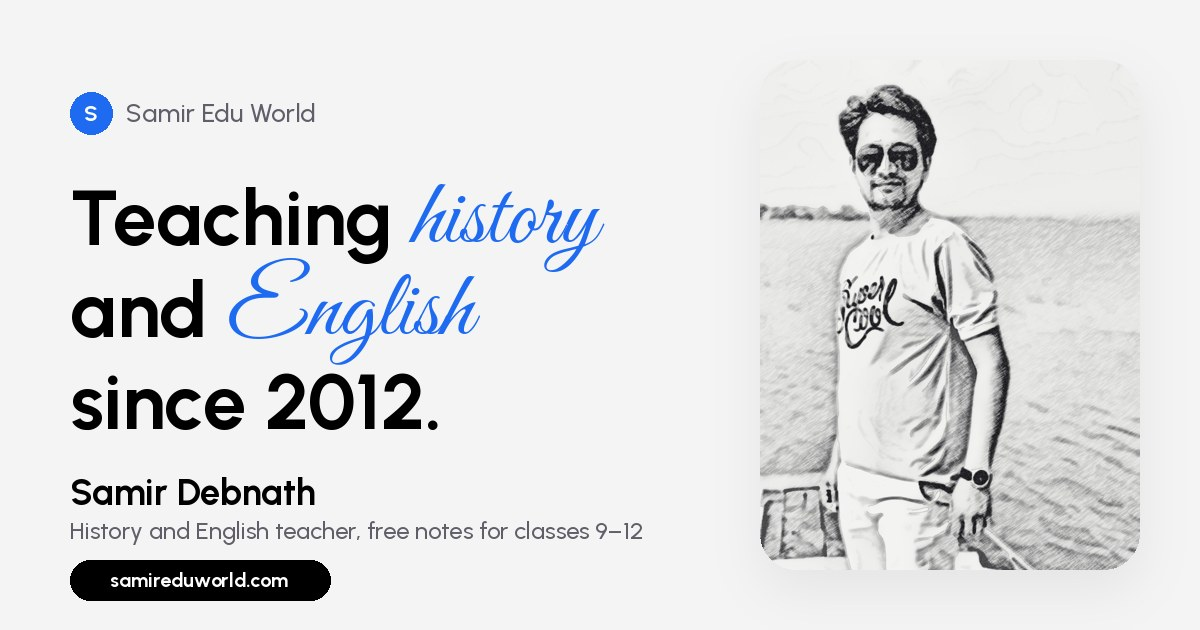
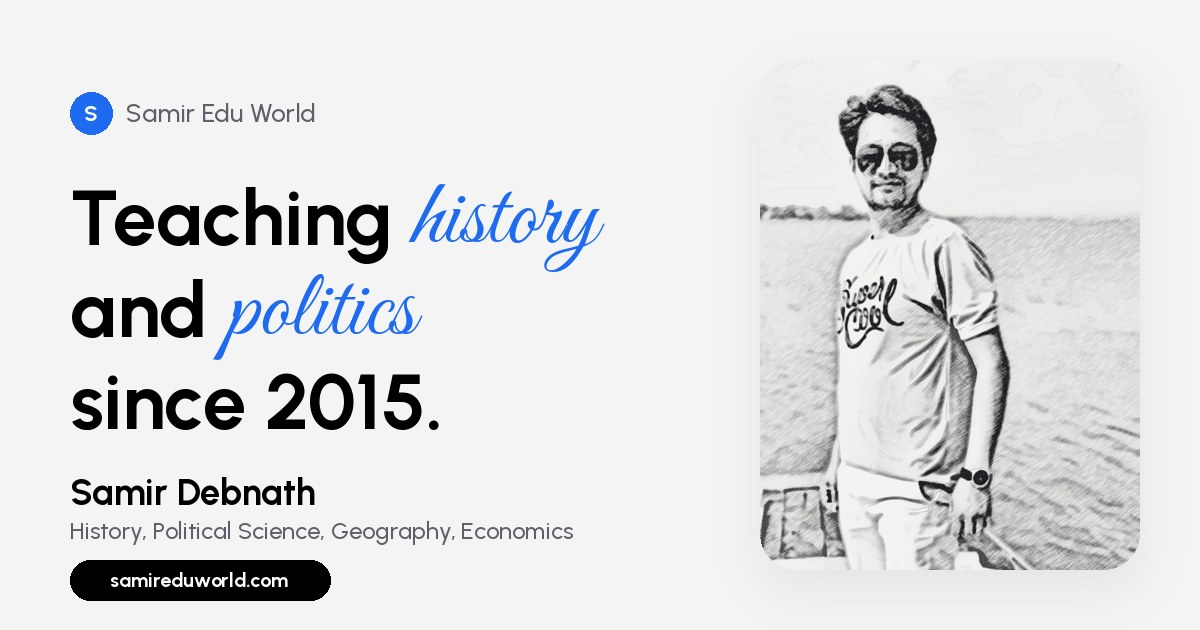
Add files via upload

diff --git a/index.html b/index.html
@@ -3,16 +3,16 @@
 <head>
 <meta charset="utf-8">
 <meta name="viewport" content="width=device-width, initial-scale=1, viewport-fit=cover">
-<title>Samir Edu World — Samir Debnath, History and English Teacher</title>
-<meta name="description" content="Samir Debnath teaches History and English at a government school in Tripura, and shares free notes for students in classes 9 to 12 through Samir Edu World.">
+<title>Samir Edu World — Samir Debnath, History and Political Science Teacher</title>
+<meta name="description" content="Samir Debnath teaches History, Political Science, Geography and Economics to classes 9 to 12, and Political Science at college. Free notes for students through Samir Edu World.">
 <link rel="canonical" href="https://samireduworld.com/">
 <meta name="theme-color" content="#F4F4F4">
 <link rel="icon" href="/favicon.svg" type="image/svg+xml">
 <link rel="apple-touch-icon" href="/apple-touch-icon.png">
 <meta property="og:type" content="website">
 <meta property="og:site_name" content="Samir Edu World">
-<meta property="og:title" content="Samir Debnath | History and English Teacher">
-<meta property="og:description" content="Teaching history and English since 2012. Free study notes for classes 9 to 12.">
+<meta property="og:title" content="Samir Debnath | History and Political Science Teacher">
+<meta property="og:description" content="Teaching history and politics since 2015. Free study notes for classes 9 to 12 and college.">
 <meta property="og:url" content="https://samireduworld.com/">
 <meta property="og:image" content="https://samireduworld.com/og-image.jpg">
 <meta property="og:image:width" content="1200">
@@ -297,7 +297,7 @@ footer{padding:40px 0 calc(50px + env(safe-area-inset-bottom,0px)); color:var(--
       <div class="notch-menu" id="notchMenu">
         <a class="wa" target="_blank" rel="noopener" href="#"><i><svg viewBox="0 0 24 24" fill="none" stroke="currentColor" stroke-width="2" stroke-linecap="round" stroke-linejoin="round"><path d="M21 11.5a8.4 8.4 0 0 1-12.4 7.4L3 21l2.1-5.4A8.4 8.4 0 1 1 21 11.5z"/></svg></i>Chat on WhatsApp</a>
         <a href="tel:+918794573962"><i><svg viewBox="0 0 24 24" fill="none" stroke="currentColor" stroke-width="2" stroke-linecap="round" stroke-linejoin="round"><path d="M22 16.9v3a2 2 0 0 1-2.2 2 19.8 19.8 0 0 1-8.6-3.1 19.5 19.5 0 0 1-6-6A19.8 19.8 0 0 1 2.1 4.2 2 2 0 0 1 4.1 2h3a2 2 0 0 1 2 1.7c.1.9.4 1.8.7 2.7a2 2 0 0 1-.5 2.1L8 9.8a16 16 0 0 0 6 6l1.3-1.3a2 2 0 0 1 2.1-.4c.9.3 1.8.6 2.7.7a2 2 0 0 1 1.7 2z"/></svg></i>Call me</a>
-        <a href="mailto:hello@samireduworld.com"><i><svg viewBox="0 0 24 24" fill="none" stroke="currentColor" stroke-width="2" stroke-linecap="round" stroke-linejoin="round"><rect x="3" y="5" width="18" height="14" rx="2"/><path d="m3 7 9 6 9-6"/></svg></i>Send an email</a>
+        <a href="mailto:sameerdeb91@gmail.com"><i><svg viewBox="0 0 24 24" fill="none" stroke="currentColor" stroke-width="2" stroke-linecap="round" stroke-linejoin="round"><rect x="3" y="5" width="18" height="14" rx="2"/><path d="m3 7 9 6 9-6"/></svg></i>Send an email</a>
       </div>
     </div>
     <div class="head-right">
@@ -313,7 +313,7 @@ footer{padding:40px 0 calc(50px + env(safe-area-inset-bottom,0px)); color:var(--
     <nav aria-label="Main">
       <a href="#top">Home</a><a href="#about">About</a><a href="#subjects">Subjects</a><a href="#notes">Free notes</a><a href="#journey">Journey</a><a href="#contact">Contact</a>
     </nav>
-    <div class="foot"><a href="mailto:hello@samireduworld.com">hello@samireduworld.com</a><span>Government High School, Tripura</span></div>
+    <div class="foot"><a href="mailto:sameerdeb91@gmail.com">sameerdeb91@gmail.com</a><span>School and college teacher</span></div>
   </div>
 </div>
 
@@ -323,12 +323,12 @@ footer{padding:40px 0 calc(50px + env(safe-area-inset-bottom,0px)); color:var(--
   <div class="wrap hero-grid">
     <div>
       <p class="badge" id="heroBadge"><i><svg viewBox="0 0 24 24" fill="none" stroke="currentColor" stroke-width="2" stroke-linecap="round" stroke-linejoin="round"><path d="M16 21v-2a4 4 0 0 0-4-4H6a4 4 0 0 0-4 4v2"/><circle cx="9" cy="7" r="4"/><path d="M22 21v-2a4 4 0 0 0-3-3.9M16 3.1a4 4 0 0 1 0 7.8"/></svg></i>Students First</p>
-      <h1 class="hero-title" id="hero-title" aria-label="Teaching history and English since 2012.">
+      <h1 class="hero-title" id="hero-title" aria-label="Teaching history and politics since 2015.">
         <span class="hl" aria-hidden="true"><span class="w"><span class="wd">Teaching</span></span> <em class="script sw">history</em></span>
-        <span class="hl" aria-hidden="true"><span class="w"><span class="wd">and</span></span> <span class="pill pw"><svg viewBox="0 0 24 24" fill="none" stroke="currentColor" stroke-width="1.8" stroke-linecap="round" stroke-linejoin="round"><path d="M2 5c3-1.5 6.5-1.5 10 1 3.5-2.5 7-2.5 10-1v14c-3-1.5-6.5-1.5-10 1-3.5-2.5-7-2.5-10-1z"/><path d="M12 6v14"/></svg></span> <em class="script sw">English</em></span>
-        <span class="hl" aria-hidden="true"><span class="w"><span class="wd">since</span></span> <span class="pill pw"><svg viewBox="0 0 24 24" fill="none" stroke="currentColor" stroke-width="1.8" stroke-linecap="round" stroke-linejoin="round"><path d="M3 9h18L12 3z"/><path d="M5 9v10M9.5 9v10M14.5 9v10M19 9v10M3 21h18"/></svg></span> <span class="w"><span class="wd">2012.</span></span></span>
+        <span class="hl" aria-hidden="true"><span class="w"><span class="wd">and</span></span> <span class="pill pw"><svg viewBox="0 0 24 24" fill="none" stroke="currentColor" stroke-width="1.8" stroke-linecap="round" stroke-linejoin="round"><path d="M12 3v18M7 21h10M4 7h16M4 7l-2 6a3 3 0 0 0 4 0zM20 7l-2 6a3 3 0 0 0 4 0z"/></svg></span> <em class="script sw">politics</em></span>
+        <span class="hl" aria-hidden="true"><span class="w"><span class="wd">since</span></span> <span class="pill pw"><svg viewBox="0 0 24 24" fill="none" stroke="currentColor" stroke-width="1.8" stroke-linecap="round" stroke-linejoin="round"><circle cx="12" cy="12" r="9"/><path d="M3 12h18M12 3c3 3.5 3 14.5 0 18M12 3c-3 3.5-3 14.5 0 18"/></svg></span> <span class="w"><span class="wd">2015.</span></span></span>
       </h1>
-      <p class="hero-lede">Helping students in classes 9 to 12 understand the past, write with confidence in English, and walk into board exams prepared.</p>
+      <p class="hero-lede">I teach History, Political Science, Geography and Economics to classes 9 to 12, and Political Science at college.</p>
       <div class="hero-cta"><a class="btn magnetic" href="#subjects">Explore my classes<span class="arr"><svg viewBox="0 0 24 24" fill="none" stroke="currentColor" stroke-width="2.4" stroke-linecap="round" stroke-linejoin="round"><path d="M5 12h14M13 6l6 6-6 6"/></svg></span></a></div>
     </div>
     <div class="hero-card-wrap">
@@ -341,10 +341,10 @@ footer{padding:40px 0 calc(50px + env(safe-area-inset-bottom,0px)); color:var(--
 <!-- STATS -->
 <div class="wrap reveal">
   <div class="stats">
-    <div class="stat"><b><span data-count="12">12</span>+</b><span>Years teaching</span></div>
+    <div class="stat"><b><span data-count="10">10</span>+</b><span>Years teaching</span></div>
     <div class="stat"><b><span data-count="2000">2,000</span>+</b><span>Students taught</span></div>
-    <div class="stat"><b data-count="4">4</b><span>Arts subjects</span></div>
-    <div class="stat"><b>9–12</b><span>Classes I teach</span></div>
+    <div class="stat"><b data-count="4">4</b><span>Subjects I teach</span></div>
+    <div class="stat"><b>9–12</b><span>Classes, plus college</span></div>
   </div>
 </div>
 
@@ -356,21 +356,21 @@ footer{padding:40px 0 calc(50px + env(safe-area-inset-bottom,0px)); color:var(--
       <p class="badge reveal"><i><svg viewBox="0 0 24 24" fill="none" stroke="currentColor" stroke-width="2" stroke-linecap="round" stroke-linejoin="round"><circle cx="12" cy="8" r="4"/><path d="M4 21a8 8 0 0 1 16 0"/></svg></i>About me</p>
       <h2 id="about-title" data-split>A teacher who <em class="script">listens</em> first.</h2>
       <div class="copy reveal">
-        <p>I teach History and English at a government school in Tripura. In twelve years I’ve learned that most students don’t struggle with the subject. They struggle with how it was explained to them.</p>
-        <p>So I teach history as the story of real people and real choices, and English as a language you use every day, not just for exams. Samir Edu World is where I share my notes, free, with any student who needs them.</p>
+        <p>I teach History, Political Science, Geography and Economics to classes 9 to 12 at a government school, and Political Science at college. In ten years in the classroom I’ve learned that most students don’t struggle with the subject. They struggle with how it was explained to them.</p>
+        <p>So I teach history as the story of real people, politics through the news students already follow, and geography and economics through the world right outside their window. Samir Edu World is where I share my notes, free, with any student who needs them.</p>
       </div>
       <dl class="facts reveal">
-        <div><dt>Qualification</dt><dd>M.A. History, B.Ed.</dd></div>
-        <div><dt>Current school</dt><dd>Government High School, Tripura</dd></div>
-        <div><dt>Experience</dt><dd>12+ years</dd></div>
-        <div><dt>Teaches in</dt><dd>Bengali and English</dd></div>
+        <div><dt>Subjects</dt><dd>History, Political Science, Geography, Economics</dd></div>
+        <div><dt>Experience</dt><dd>10+ years, since 2015</dd></div>
+        <div><dt>School</dt><dd>Classes 9 to 12</dd></div>
+        <div><dt>College</dt><dd>Political Science</dd></div>
       </dl>
     </div>
   </div>
 </section>
 
 <!-- MARQUEE -->
-<div class="marquee" aria-hidden="true"><div class="marquee-track"><div class="marquee-group"><span>Modern India</span><svg viewBox="0 0 24 24"><path d="M12 2 L14 10 L22 12 L14 14 L12 22 L10 14 L2 12 L10 10 Z" fill="currentColor"/></svg><span class="script">English</span><svg viewBox="0 0 24 24"><path d="M12 2 L14 10 L22 12 L14 14 L12 22 L10 14 L2 12 L10 10 Z" fill="currentColor"/></svg><span>Essay writing</span><svg viewBox="0 0 24 24"><path d="M12 2 L14 10 L22 12 L14 14 L12 22 L10 14 L2 12 L10 10 Z" fill="currentColor"/></svg><span>World history</span><svg viewBox="0 0 24 24"><path d="M12 2 L14 10 L22 12 L14 14 L12 22 L10 14 L2 12 L10 10 Z" fill="currentColor"/></svg><span class="script">Poetry</span><svg viewBox="0 0 24 24"><path d="M12 2 L14 10 L22 12 L14 14 L12 22 L10 14 L2 12 L10 10 Z" fill="currentColor"/></svg><span>The Constitution</span><svg viewBox="0 0 24 24"><path d="M12 2 L14 10 L22 12 L14 14 L12 22 L10 14 L2 12 L10 10 Z" fill="currentColor"/></svg><span>Map work</span><svg viewBox="0 0 24 24"><path d="M12 2 L14 10 L22 12 L14 14 L12 22 L10 14 L2 12 L10 10 Z" fill="currentColor"/></svg><span class="script">Grammar</span><svg viewBox="0 0 24 24"><path d="M12 2 L14 10 L22 12 L14 14 L12 22 L10 14 L2 12 L10 10 Z" fill="currentColor"/></svg></div><div class="marquee-group"><span>Modern India</span><svg viewBox="0 0 24 24"><path d="M12 2 L14 10 L22 12 L14 14 L12 22 L10 14 L2 12 L10 10 Z" fill="currentColor"/></svg><span class="script">English</span><svg viewBox="0 0 24 24"><path d="M12 2 L14 10 L22 12 L14 14 L12 22 L10 14 L2 12 L10 10 Z" fill="currentColor"/></svg><span>Essay writing</span><svg viewBox="0 0 24 24"><path d="M12 2 L14 10 L22 12 L14 14 L12 22 L10 14 L2 12 L10 10 Z" fill="currentColor"/></svg><span>World history</span><svg viewBox="0 0 24 24"><path d="M12 2 L14 10 L22 12 L14 14 L12 22 L10 14 L2 12 L10 10 Z" fill="currentColor"/></svg><span class="script">Poetry</span><svg viewBox="0 0 24 24"><path d="M12 2 L14 10 L22 12 L14 14 L12 22 L10 14 L2 12 L10 10 Z" fill="currentColor"/></svg><span>The Constitution</span><svg viewBox="0 0 24 24"><path d="M12 2 L14 10 L22 12 L14 14 L12 22 L10 14 L2 12 L10 10 Z" fill="currentColor"/></svg><span>Map work</span><svg viewBox="0 0 24 24"><path d="M12 2 L14 10 L22 12 L14 14 L12 22 L10 14 L2 12 L10 10 Z" fill="currentColor"/></svg><span class="script">Grammar</span><svg viewBox="0 0 24 24"><path d="M12 2 L14 10 L22 12 L14 14 L12 22 L10 14 L2 12 L10 10 Z" fill="currentColor"/></svg></div></div></div>
+<div class="marquee" aria-hidden="true"><div class="marquee-track"><div class="marquee-group"><span>Modern India</span><svg viewBox="0 0 24 24"><path d="M12 2 L14 10 L22 12 L14 14 L12 22 L10 14 L2 12 L10 10 Z" fill="currentColor"/></svg><span class="script">Politics</span><svg viewBox="0 0 24 24"><path d="M12 2 L14 10 L22 12 L14 14 L12 22 L10 14 L2 12 L10 10 Z" fill="currentColor"/></svg><span>The Constitution</span><svg viewBox="0 0 24 24"><path d="M12 2 L14 10 L22 12 L14 14 L12 22 L10 14 L2 12 L10 10 Z" fill="currentColor"/></svg><span>World history</span><svg viewBox="0 0 24 24"><path d="M12 2 L14 10 L22 12 L14 14 L12 22 L10 14 L2 12 L10 10 Z" fill="currentColor"/></svg><span class="script">Geography</span><svg viewBox="0 0 24 24"><path d="M12 2 L14 10 L22 12 L14 14 L12 22 L10 14 L2 12 L10 10 Z" fill="currentColor"/></svg><span>Map work</span><svg viewBox="0 0 24 24"><path d="M12 2 L14 10 L22 12 L14 14 L12 22 L10 14 L2 12 L10 10 Z" fill="currentColor"/></svg><span>Indian economy</span><svg viewBox="0 0 24 24"><path d="M12 2 L14 10 L22 12 L14 14 L12 22 L10 14 L2 12 L10 10 Z" fill="currentColor"/></svg><span class="script">Economics</span><svg viewBox="0 0 24 24"><path d="M12 2 L14 10 L22 12 L14 14 L12 22 L10 14 L2 12 L10 10 Z" fill="currentColor"/></svg><span>Elections and democracy</span><svg viewBox="0 0 24 24"><path d="M12 2 L14 10 L22 12 L14 14 L12 22 L10 14 L2 12 L10 10 Z" fill="currentColor"/></svg></div><div class="marquee-group"><span>Modern India</span><svg viewBox="0 0 24 24"><path d="M12 2 L14 10 L22 12 L14 14 L12 22 L10 14 L2 12 L10 10 Z" fill="currentColor"/></svg><span class="script">Politics</span><svg viewBox="0 0 24 24"><path d="M12 2 L14 10 L22 12 L14 14 L12 22 L10 14 L2 12 L10 10 Z" fill="currentColor"/></svg><span>The Constitution</span><svg viewBox="0 0 24 24"><path d="M12 2 L14 10 L22 12 L14 14 L12 22 L10 14 L2 12 L10 10 Z" fill="currentColor"/></svg><span>World history</span><svg viewBox="0 0 24 24"><path d="M12 2 L14 10 L22 12 L14 14 L12 22 L10 14 L2 12 L10 10 Z" fill="currentColor"/></svg><span class="script">Geography</span><svg viewBox="0 0 24 24"><path d="M12 2 L14 10 L22 12 L14 14 L12 22 L10 14 L2 12 L10 10 Z" fill="currentColor"/></svg><span>Map work</span><svg viewBox="0 0 24 24"><path d="M12 2 L14 10 L22 12 L14 14 L12 22 L10 14 L2 12 L10 10 Z" fill="currentColor"/></svg><span>Indian economy</span><svg viewBox="0 0 24 24"><path d="M12 2 L14 10 L22 12 L14 14 L12 22 L10 14 L2 12 L10 10 Z" fill="currentColor"/></svg><span class="script">Economics</span><svg viewBox="0 0 24 24"><path d="M12 2 L14 10 L22 12 L14 14 L12 22 L10 14 L2 12 L10 10 Z" fill="currentColor"/></svg><span>Elections and democracy</span><svg viewBox="0 0 24 24"><path d="M12 2 L14 10 L22 12 L14 14 L12 22 L10 14 L2 12 L10 10 Z" fill="currentColor"/></svg></div></div></div>
 
 <!-- SUBJECTS -->
 <section class="block" id="subjects" aria-labelledby="subjects-title">
@@ -391,16 +391,16 @@ footer{padding:40px 0 calc(50px + env(safe-area-inset-bottom,0px)); color:var(--
         <div class="chips"><span class="chip">Class 9–10</span><span class="chip">Class 11–12</span></div>
       </article>
       <article class="card c5 reveal">
-        <span class="ico"><svg viewBox="0 0 24 24" fill="none" stroke="currentColor" stroke-width="2" stroke-linecap="round" stroke-linejoin="round"><path d="M2 5c3-1.5 6.5-1.5 10 1 3.5-2.5 7-2.5 10-1v14c-3-1.5-6.5-1.5-10 1-3.5-2.5-7-2.5-10-1z"/><path d="M12 6v14"/></svg></span>
-        <h3>English</h3>
-        <p>Literature, grammar and writing, so students read with understanding and write with confidence.</p>
-        <ul class="topics"><li>Prose and poetry</li><li>Grammar</li><li>Essay writing</li><li>Letters and reports</li></ul>
-        <div class="chips"><span class="chip">Class 9–10</span><span class="chip">Class 11–12</span></div>
-      </article>
-      <article class="card c4 reveal">
         <span class="ico"><svg viewBox="0 0 24 24" fill="none" stroke="currentColor" stroke-width="2" stroke-linecap="round" stroke-linejoin="round"><path d="M12 3v18M7 21h10M4 7h16M4 7l-2 6a3 3 0 0 0 4 0zM20 7l-2 6a3 3 0 0 0 4 0z"/></svg></span>
         <h3>Political Science</h3>
-        <p>The Constitution, our rights and duties, and how government really works.</p>
+        <p>The Constitution, rights, elections and political theory, taught at school and at college, always connected to today’s news.</p>
+        <ul class="topics"><li>Indian Constitution</li><li>Rights and duties</li><li>Elections and democracy</li><li>Political theory</li></ul>
+        <div class="chips"><span class="chip">Class 11–12</span><span class="chip">College</span></div>
+      </article>
+      <article class="card c4 reveal">
+        <span class="ico"><svg viewBox="0 0 24 24" fill="none" stroke="currentColor" stroke-width="2" stroke-linecap="round" stroke-linejoin="round"><path d="M3 3v18h18"/><path d="M7 15l4-4 3 3 6-6"/></svg></span>
+        <h3>Economics</h3>
+        <p>Demand, money, development and the Indian economy, explained with everyday examples.</p>
       </article>
       <article class="card c4 reveal">
         <span class="ico"><svg viewBox="0 0 24 24" fill="none" stroke="currentColor" stroke-width="2" stroke-linecap="round" stroke-linejoin="round"><circle cx="12" cy="12" r="9"/><path d="M3 12h18M12 3c3 3.5 3 14.5 0 18M12 3c-3 3.5-3 14.5 0 18"/></svg></span>
@@ -441,17 +441,17 @@ footer{padding:40px 0 calc(50px + env(safe-area-inset-bottom,0px)); color:var(--
     </div>
     <article class="note reveal">
       <svg class="art" viewBox="0 0 300 260" aria-hidden="true"><g class="lns"><path d="M40 70 C 90 52, 128 56, 150 76 C 172 56, 210 52, 260 70 V208 C 210 192, 172 196, 150 214 C 128 196, 90 192, 40 208 Z"/><path d="M150 76 V214"/><path d="M64 98 C 90 90, 112 92, 132 100"/><path d="M64 122 C 90 114, 112 116, 132 124"/><path d="M64 146 C 90 138, 112 140, 132 148"/><path d="M64 170 C 86 163, 104 164, 120 170"/><path d="M168 100 C 188 92, 210 90, 236 98"/><path d="M168 124 C 188 116, 210 114, 236 122"/><path d="M168 148 C 188 140, 206 138, 224 144"/></g><path class="acc" d="M206 58 V104 L216 94 L226 104 V56"/></svg>
-      <div class="meta"><span class="chip">English</span><span class="chip">Class 11–12</span></div>
-      <h3>Prose and poetry, explained</h3>
-      <p>Line-by-line explanations of your English textbook chapters, with likely exam questions.</p>
-      <a data-note="Prose and poetry, explained" target="_blank" rel="noopener">Ask on WhatsApp<i><svg viewBox="0 0 24 24" fill="none" stroke="currentColor" stroke-width="2.6" stroke-linecap="round" stroke-linejoin="round"><path d="M5 12h14M13 6l6 6-6 6"/></svg></i></a>
+      <div class="meta"><span class="chip">Economics</span><span class="chip">Class 9–12</span></div>
+      <h3>Economics, one idea at a time</h3>
+      <p>Demand, supply, money and development, explained with examples from the local market.</p>
+      <a data-note="Economics, one idea at a time" target="_blank" rel="noopener">Ask on WhatsApp<i><svg viewBox="0 0 24 24" fill="none" stroke="currentColor" stroke-width="2.6" stroke-linecap="round" stroke-linejoin="round"><path d="M5 12h14M13 6l6 6-6 6"/></svg></i></a>
     </article>
     <article class="note reveal">
       <svg class="art" viewBox="0 0 300 260" aria-hidden="true"><g class="lns"><path d="M60 40 H190 L222 72 V228 H60 Z"/><path d="M190 40 V72 H222"/><path d="M84 98 H196"/><path d="M84 122 H198"/><path d="M84 146 H186"/><path d="M84 170 H150"/><path d="M84 196 H132"/></g><path class="acc" d="M262 24 C 214 52, 186 100, 176 176 C 200 128, 242 88, 262 24 Z"/><path class="acc" d="M176 176 L168 200"/></svg>
-      <div class="meta"><span class="chip">English</span><span class="chip">Class 9–12</span></div>
-      <h3>Essays, letters and reports</h3>
-      <p>Formats, sample answers and a checklist for every kind of writing question.</p>
-      <a data-note="Essays, letters and reports" target="_blank" rel="noopener">Ask on WhatsApp<i><svg viewBox="0 0 24 24" fill="none" stroke="currentColor" stroke-width="2.6" stroke-linecap="round" stroke-linejoin="round"><path d="M5 12h14M13 6l6 6-6 6"/></svg></i></a>
+      <div class="meta"><span class="chip">All subjects</span><span class="chip">Class 9–12</span></div>
+      <h3>Answer writing that scores</h3>
+      <p>How to plan and write long answers in History and Political Science, with sample answers.</p>
+      <a data-note="Answer writing that scores" target="_blank" rel="noopener">Ask on WhatsApp<i><svg viewBox="0 0 24 24" fill="none" stroke="currentColor" stroke-width="2.6" stroke-linecap="round" stroke-linejoin="round"><path d="M5 12h14M13 6l6 6-6 6"/></svg></i></a>
     </article>
     <article class="note reveal">
       <svg class="art" viewBox="0 0 300 260" aria-hidden="true"><g class="lns"><path d="M60 80 L150 34 L240 80 Z"/><path d="M54 80 H246"/><path d="M60 94 H240"/><path d="M84 94 V196"/><path d="M120 94 V196"/><path d="M180 94 V196"/><path d="M216 94 V196"/><path d="M60 196 H240"/><path d="M48 214 H252"/><path d="M40 230 H260"/></g><path class="acc" d="M142 64 a8 8 0 1 0 16 0 a8 8 0 1 0 -16 0"/></svg>
@@ -469,7 +469,7 @@ footer{padding:40px 0 calc(50px + env(safe-area-inset-bottom,0px)); color:var(--
     </article>
     <article class="note reveal">
       <svg class="art" viewBox="0 0 300 260" aria-hidden="true"><g class="lns"><path d="M150 48 V214"/><path d="M104 226 H196"/><path d="M120 214 H180"/><path d="M66 74 H234"/><path d="M66 74 L42 138"/><path d="M66 74 L90 138"/><path d="M36 138 C 42 164, 90 164, 96 138 Z"/><path d="M234 74 L210 138"/><path d="M234 74 L258 138"/><path d="M204 138 C 210 164, 258 164, 264 138 Z"/></g><path class="acc" d="M142 40 a8 8 0 1 0 16 0 a8 8 0 1 0 -16 0"/></svg>
-      <div class="meta"><span class="chip">Political Science</span><span class="chip">Class 11–12</span></div>
+      <div class="meta"><span class="chip">Political Science</span><span class="chip">Class 11 to college</span></div>
       <h3>The Constitution, simplified</h3>
       <p>Fundamental rights, duties and how Parliament works, in plain language.</p>
       <a data-note="The Constitution, simplified" target="_blank" rel="noopener">Ask on WhatsApp<i><svg viewBox="0 0 24 24" fill="none" stroke="currentColor" stroke-width="2.6" stroke-linecap="round" stroke-linejoin="round"><path d="M5 12h14M13 6l6 6-6 6"/></svg></i></a>
@@ -492,15 +492,13 @@ footer{padding:40px 0 calc(50px + env(safe-area-inset-bottom,0px)); color:var(--
         <p class="badge reveal"><i><svg viewBox="0 0 24 24" fill="none" stroke="currentColor" stroke-width="2" stroke-linecap="round" stroke-linejoin="round"><circle cx="12" cy="12" r="9"/><path d="M12 7v5l3 2"/></svg></i>Journey</p>
         <h2 id="journey-title" data-split>My <em class="script">journey</em> so far</h2>
       </div>
-      <p class="reveal">From a village classroom to teaching hundreds of students every year.</p>
+      <p class="reveal">From a village school classroom to the college lecture hall.</p>
     </div>
     <div class="tl-wrap" id="timeline"><span class="tl-rail" aria-hidden="true"></span><span class="tl-fill" aria-hidden="true"></span>
       <ol class="timeline">
-        <li class="reveal"><span class="year">2008</span><div><h3>Graduated in History</h3><p>Finished my B.A. and started tutoring students in my village.</p></div></li>
-        <li class="reveal"><span class="year">2011</span><div><h3>M.A. and B.Ed.</h3><p>Completed my master’s in History and trained as a teacher.</p></div></li>
-        <li class="reveal"><span class="year">2012</span><div><h3>Joined government service</h3><p>Began teaching History and English at a government school in Tripura.</p></div></li>
-        <li class="reveal"><span class="year">2019</span><div><h3>Started Samir Edu World</h3><p>Turned my class notes into free study material any student can use.</p></div></li>
-        <li class="reveal"><span class="year">2024</span><div><h3>Best board results in my school</h3><p>My class 12 arts students recorded the school’s highest pass rate.</p></div></li>
+        <li class="reveal"><span class="year">2015</span><div><h3>Started teaching</h3><p>Stepped into the classroom as a teacher for the first time.</p></div></li>
+        <li class="reveal"><span class="year">2026</span><div><h3>Launched Samir Edu World</h3><p>A home for free notes and guidance, open to every student.</p></div></li>
+        <li class="reveal"><span class="year">Now</span><div><h3>School and college</h3><p>Teaching classes 9 to 12 at a government school, and Political Science at college level.</p></div></li>
       </ol>
     </div>
   </div>
@@ -512,8 +510,8 @@ footer{padding:40px 0 calc(50px + env(safe-area-inset-bottom,0px)); color:var(--
     <div class="sec-head"><div class="left"><p class="badge reveal"><i><svg viewBox="0 0 24 24" fill="none" stroke="currentColor" stroke-width="2" stroke-linecap="round" stroke-linejoin="round"><path d="M12 2l3 7h7l-5.5 4.5L18.5 21 12 16.5 5.5 21l2-7.5L2 9h7z"/></svg></i>Kind words</p><h2 id="voices-title" data-split>What students <em class="script">say</em></h2></div></div>
     <div class="quotes">
       <figure class="quote reveal"><span class="stars" aria-hidden="true">★★★★★</span><blockquote>History was my weakest subject. Sir taught the freedom struggle like a story, and I scored 89 in my board exam.</blockquote><figcaption><i>R</i><div>Rupa D.<span>Class 12, Arts</span></div></figcaption></figure>
-      <figure class="quote reveal"><span class="stars" aria-hidden="true">★★★★★</span><blockquote>My son was scared of English writing. After Samir Sir’s classes he writes letters and essays on his own.</blockquote><figcaption><i>B</i><div>Bijoy S.<span>Parent</span></div></figcaption></figure>
-      <figure class="quote reveal"><span class="stars" aria-hidden="true">★★★★★</span><blockquote>The free notes from Samir Edu World were all I used for revision. Short, clear and exactly what the exam asks.</blockquote><figcaption><i>A</i><div>Ankit R.<span>Former student</span></div></figcaption></figure>
+      <figure class="quote reveal"><span class="stars" aria-hidden="true">★★★★★</span><blockquote>My son found Political Science boring. Now he follows the news and explains it to us at dinner.</blockquote><figcaption><i>B</i><div>Bijoy S.<span>Parent</span></div></figcaption></figure>
+      <figure class="quote reveal"><span class="stars" aria-hidden="true">★★★★★</span><blockquote>His Political Science lectures are the clearest I’ve had at college. He makes political theory feel practical.</blockquote><figcaption><i>P</i><div>Priya S.<span>College student</span></div></figcaption></figure>
       <figure class="quote reveal"><span class="stars" aria-hidden="true">★★★★★</span><blockquote>He is patient, prepared and generous with his time. Students trust him, and it shows in their results.</blockquote><figcaption><i>H</i><div>Headmaster<span>Government High School</span></div></figcaption></figure>
     </div>
   </div>
@@ -528,8 +526,8 @@ footer{padding:40px 0 calc(50px + env(safe-area-inset-bottom,0px)); color:var(--
         <p class="lead reveal">Students, parents and schools can reach me here. Your message opens in WhatsApp, ready to send.</p>
         <ul class="info reveal">
           <li><i><svg viewBox="0 0 24 24" fill="none" stroke="currentColor" stroke-width="2" stroke-linecap="round" stroke-linejoin="round"><path d="M22 16.9v3a2 2 0 0 1-2.2 2 19.8 19.8 0 0 1-8.6-3.1 19.5 19.5 0 0 1-6-6A19.8 19.8 0 0 1 2.1 4.2 2 2 0 0 1 4.1 2h3a2 2 0 0 1 2 1.7c.1.9.4 1.8.7 2.7a2 2 0 0 1-.5 2.1L8 9.8a16 16 0 0 0 6 6l1.3-1.3a2 2 0 0 1 2.1-.4c.9.3 1.8.6 2.7.7a2 2 0 0 1 1.7 2z"/></svg></i><div><small>Phone and WhatsApp</small><a href="tel:+918794573962">+91 87945 73962</a></div></li>
-          <li><i><svg viewBox="0 0 24 24" fill="none" stroke="currentColor" stroke-width="2" stroke-linecap="round" stroke-linejoin="round"><rect x="3" y="5" width="18" height="14" rx="2"/><path d="m3 7 9 6 9-6"/></svg></i><div><small>Email</small><a href="mailto:hello@samireduworld.com">hello@samireduworld.com</a></div></li>
-          <li><i><svg viewBox="0 0 24 24" fill="none" stroke="currentColor" stroke-width="2" stroke-linecap="round" stroke-linejoin="round"><path d="M12 22s7-6.2 7-12a7 7 0 1 0-14 0c0 5.8 7 12 7 12z"/><circle cx="12" cy="10" r="2.5"/></svg></i><div><small>School</small><b>Government High School, Tripura</b></div></li>
+          <li><i><svg viewBox="0 0 24 24" fill="none" stroke="currentColor" stroke-width="2" stroke-linecap="round" stroke-linejoin="round"><rect x="3" y="5" width="18" height="14" rx="2"/><path d="m3 7 9 6 9-6"/></svg></i><div><small>Email</small><a href="mailto:sameerdeb91@gmail.com">sameerdeb91@gmail.com</a></div></li>
+          <li><i><svg viewBox="0 0 24 24" fill="none" stroke="currentColor" stroke-width="2" stroke-linecap="round" stroke-linejoin="round"><path d="M12 22s7-6.2 7-12a7 7 0 1 0-14 0c0 5.8 7 12 7 12z"/><circle cx="12" cy="10" r="2.5"/></svg></i><div><small>Teaches at</small><b>School (classes 9–12) and college</b></div></li>
         </ul>
       </div>
       <form id="contactForm" class="reveal" novalidate>
@@ -537,7 +535,7 @@ footer{padding:40px 0 calc(50px + env(safe-area-inset-bottom,0px)); color:var(--
           <label>Your name<input name="name" autocomplete="name" required></label>
           <label>I am a<select name="who"><option>Student</option><option>Parent</option><option>Teacher or school</option><option>Someone else</option></select></label>
         </div>
-        <label>Class (if you’re a student or parent)<select name="cls"><option value="">Not applicable</option><option>Class 9</option><option>Class 10</option><option>Class 11</option><option>Class 12</option></select></label>
+        <label>Class (if you’re a student or parent)<select name="cls"><option value="">Not applicable</option><option>Class 9</option><option>Class 10</option><option>Class 11</option><option>Class 12</option><option>College</option></select></label>
         <label>Your message<textarea name="msg" required placeholder="For example: Please share the class 12 history notes."></textarea></label>
         <p class="err" id="formErr" role="alert"></p>
         <div><button class="btn blue magnetic" type="submit">Send on WhatsApp<span class="arr"><svg viewBox="0 0 24 24" fill="none" stroke="currentColor" stroke-width="2.4" stroke-linecap="round" stroke-linejoin="round"><path d="M5 12h14M13 6l6 6-6 6"/></svg></span></button></div>
